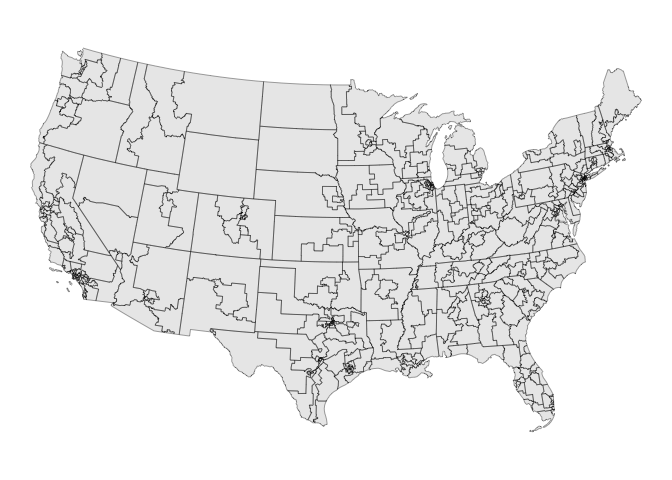
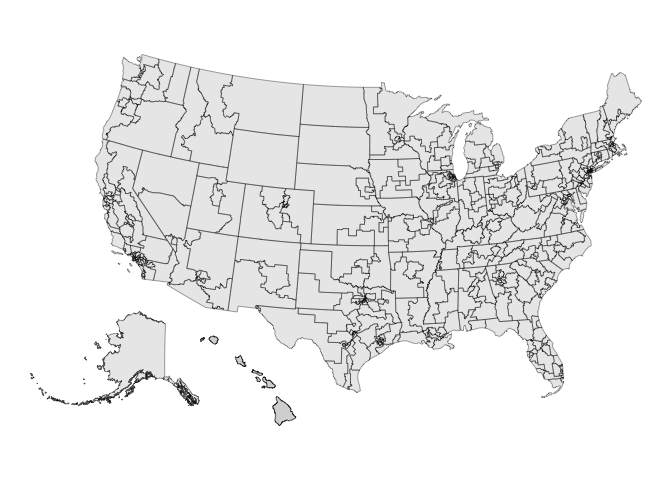
update cd_shps

Changed region(s): [[0.0312, 0.0938, 0.9375, 0.9062], [0.9375, 0.1875, 0.9688, 0.2188]]

diff --git a/README.md b/README.md
@@ -7,6 +7,7 @@ Maintainer: Shiro Kuriwaki
 
 <!-- badges: start -->
 
+[![R-CMD-check](https://github.com/kuriwaki/fourthirtyfive/actions/workflows/R-CMD-check.yaml/badge.svg)](https://github.com/kuriwaki/fourthirtyfive/actions/workflows/R-CMD-check.yaml)
 <!-- badges: end -->
 
 fourthirtyfive is a package that provides shapefiles and other data for
@@ -96,10 +97,13 @@ these from either the Census or Jeff Lewis’s historical shapefiles.
 
 ``` r
 cd_shps <- load_cd_shps(c = 118)
+#>   |                                                                              |                                                                      |   0%  |                                                                              |==                                                                    |   3%  |                                                                              |====                                                                  |   6%  |                                                                              |=====                                                                 |   7%  |                                                                              |========                                                              |  11%  |                                                                              |==========                                                            |  14%  |                                                                              |============                                                          |  17%  |                                                                              |===============                                                       |  22%  |                                                                              |=================                                                     |  24%  |                                                                              |===================                                                   |  27%  |                                                                              |====================                                                  |  29%  |                                                                              |=======================                                               |  33%  |                                                                              |=========================                                             |  36%  |                                                                              |============================                                          |  41%  |                                                                              |=============================                                         |  42%  |                                                                              |===============================                                       |  44%  |                                                                              |==================================                                    |  48%  |                                                                              |====================================                                  |  52%  |                                                                              |======================================                                |  54%  |                                                                              |==========================================                            |  59%  |                                                                              |============================================                          |  63%  |                                                                              |===============================================                       |  68%  |                                                                              |==================================================                    |  72%  |                                                                              |=====================================================                 |  76%  |                                                                              |========================================================              |  80%  |                                                                              |===========================================================           |  84%  |                                                                              |==============================================================        |  88%  |                                                                              |================================================================      |  92%  |                                                                              |===================================================================   |  96%  |                                                                              |======================================================================| 100%
+#> old-style crs object detected; please recreate object with a recent sf::st_crs()
+#> Warning in CPL_crs_from_input(x): GDAL Message 1: CRS EPSG:2163 is deprecated.
+#> Its non-deprecated replacement EPSG:9311 will be used instead. To use the
+#> original CRS, set the OSR_USE_NON_DEPRECATED configuration option to NO.
 
 cd_shps |>
-  # remove Alaska and Hawaii for now
-  dplyr::filter(!STATEFP %in% c("15", "02")) |>
   ggplot() +
   geom_sf() +
   theme_void()
@@ -123,7 +127,7 @@ load_cd_info(2007)
 #>  4   110 AL-03 East-central Alabama                          
 #>  5   110 AL-04 North-central Alabama                         
 #>  6   110 AL-05 Northern Alabama                              
-#>  7   110 AL-06 Birmingham and Tuscaloose suburbs             
+#>  7   110 AL-06 Birmingham and Tuscaloosa suburbs             
 #>  8   110 AL-07 Birmingham, Tuscaloosa, and western Black Belt
 #>  9   110 AR-01 Northeastern Arkansas                         
 #> 10   110 AR-02 Greater Little Rock                           
